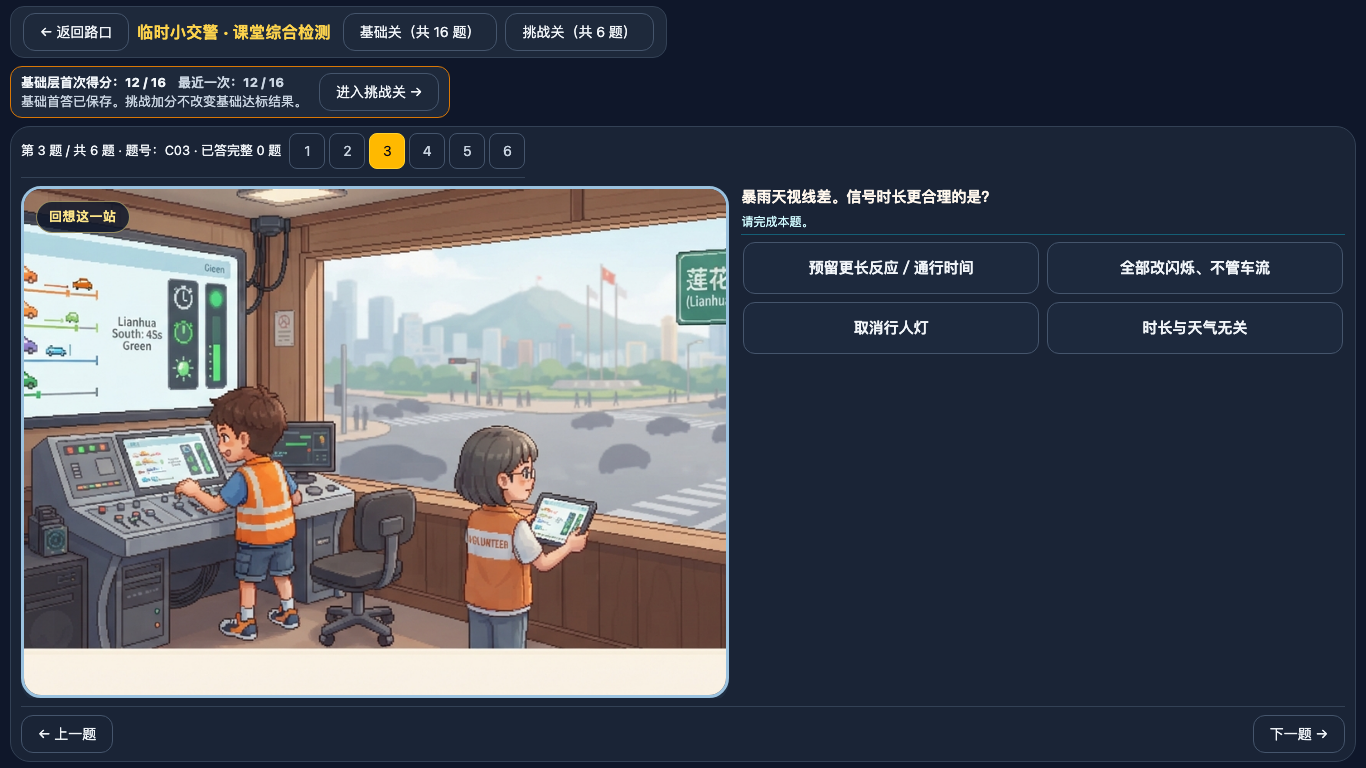
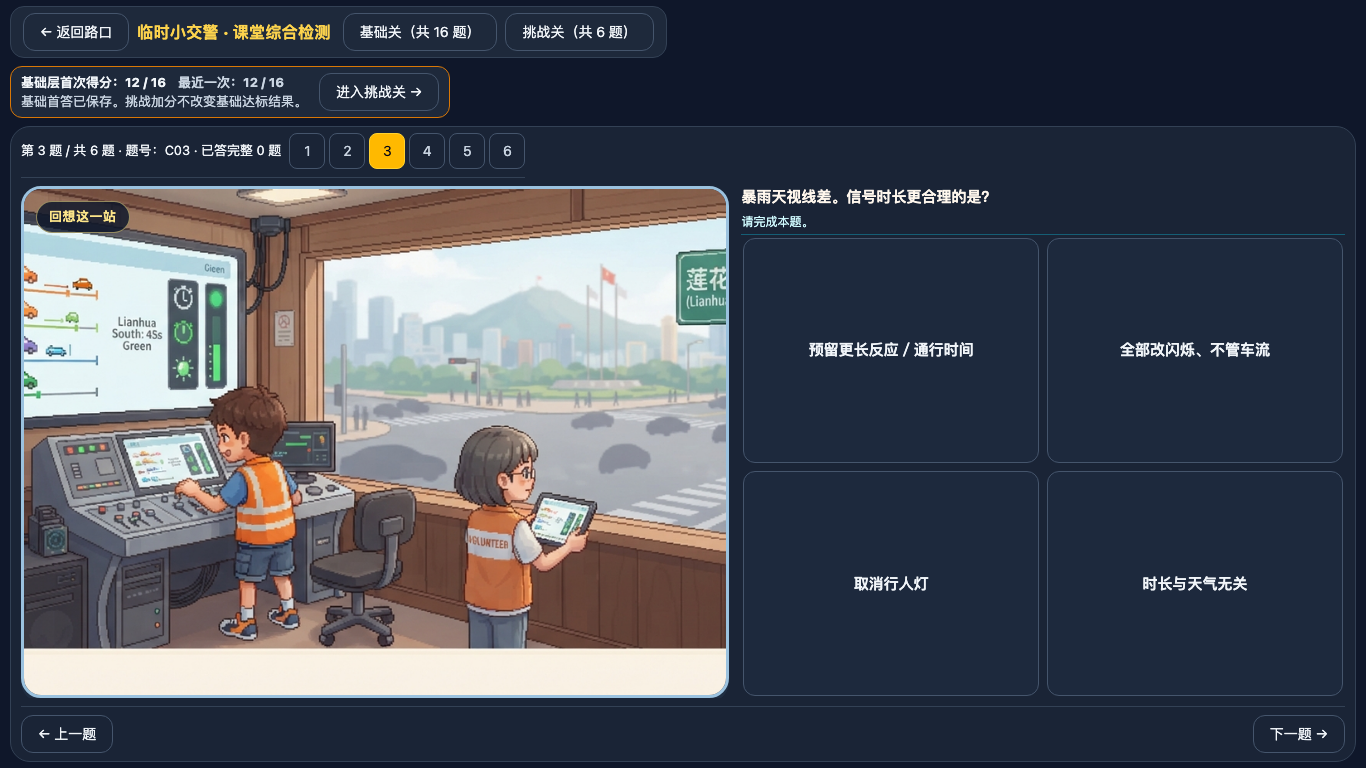
fix(g5l7): 考核右栏选项均分铺满剩余高度
去掉选项 max-height 与 align-content:start，用 1fr 行把 2×2 / 双选项大卡片拉满右栏。
C05 三行均分且仍保证 1366×768 一屏可见。考核流程图 fitPadding 略收，双图同一参数。

diff --git a/src/components/lesson/FlowDiagram.tsx b/src/components/lesson/FlowDiagram.tsx
@@ -4,7 +4,7 @@ import '@xyflow/react/dist/style.css';
 
 export type DiagramNode = { id: string; label: string; kind: 'start' | 'process' | 'decision'; x: number; y: number; empty?: boolean; branches?: boolean };
 export type DiagramEdge = { id: string; from: string; to: string; branch?: 'yes' | 'no'; label?: string; back?: boolean };
-type Props = { nodes: DiagramNode[]; edges: DiagramEdge[]; activeNode?: string; nextNodeId?: string; selectedEdge?: string; selectedBranch?: string; onNodeSelect?: (id: string) => void; onPortSelect?: (port: 'yes' | 'no') => void; onEdgeSelect?: (id: string) => void; label?: string };
+type Props = { nodes: DiagramNode[]; edges: DiagramEdge[]; activeNode?: string; nextNodeId?: string; selectedEdge?: string; selectedBranch?: string; onNodeSelect?: (id: string) => void; onPortSelect?: (port: 'yes' | 'no') => void; onEdgeSelect?: (id: string) => void; label?: string; fitPadding?: number };
 
 function LessonNode({ data }: NodeProps) {
   const d = data as any;
@@ -48,6 +48,8 @@ const edgeTypes = { lesson: LessonEdge };
 export default function FlowDiagram(props: Props) {
   const container = useRef<HTMLDivElement>(null);
   const fit = useRef<() => void>(() => {});
+  const fitPadding = useRef(props.fitPadding ?? 0.18);
+  fitPadding.current = props.fitPadding ?? 0.18;
   const layoutKey = props.nodes.map(n => `${n.id}:${n.kind}:${n.x}:${n.y}`).join('|');
   useEffect(() => {
     let frame = 0;
@@ -64,10 +66,10 @@ export default function FlowDiagram(props: Props) {
       secondFrame = window.requestAnimationFrame(() => fit.current());
     });
     return () => { window.cancelAnimationFrame(frame); window.cancelAnimationFrame(secondFrame); };
-  }, [layoutKey]);
+  }, [layoutKey, props.fitPadding]);
   const nodes = useMemo(() => props.nodes.map(n => ({ id: n.id, type: 'lesson', position: { x: n.x, y: n.y }, data: { ...n, active: props.activeNode === n.id, selectable: !!props.onNodeSelect, selectedBranch: props.selectedBranch, onPort: props.onPortSelect }, width: n.kind === 'decision' ? 240 : 200, height: n.kind === 'decision' ? 100 : 54, draggable: false })), [props.nodes, props.activeNode, props.onNodeSelect, props.onPortSelect, props.selectedBranch]);
   const edges = useMemo(() => props.edges.map(e => ({ id: e.id, type: 'lesson', source: e.from, target: e.to, sourceHandle: e.branch || 'bottom', targetHandle: e.back ? 'left' : 'top', label: e.label, markerEnd: { type: MarkerType.ArrowClosed, color: props.selectedEdge === e.id ? '#f58b20' : '#367abd' }, data: { back: e.back, selected: props.selectedEdge === e.id }, animated: props.activeNode === e.from && props.nextNodeId === e.to })), [props.edges, props.selectedEdge, props.activeNode, props.nextNodeId]);
   return <div ref={container} className="lesson-flow" aria-label={props.label || '可操作流程图'}>
-    <ReactFlow nodes={nodes} edges={edges} nodeTypes={nodeTypes} edgeTypes={edgeTypes} onInit={instance => { fit.current = () => { void instance.fitView({ padding: .18, duration: 0 }); }; fit.current(); }} fitView fitViewOptions={{ padding: .18 }} minZoom={.25} maxZoom={1.1} nodesDraggable={false} nodesConnectable={false} panOnDrag={false} panOnScroll={false} zoomOnScroll={false} zoomOnDoubleClick={false} zoomOnPinch={false} elementsSelectable={false} onNodeClick={(_, node) => props.onNodeSelect?.(node.id)} onEdgeClick={(_, edge) => props.onEdgeSelect?.(edge.id)} preventScrolling={false} />
+    <ReactFlow nodes={nodes} edges={edges} nodeTypes={nodeTypes} edgeTypes={edgeTypes} onInit={instance => { fit.current = () => { void instance.fitView({ padding: fitPadding.current, duration: 0 }); }; fit.current(); }} fitView fitViewOptions={{ padding: props.fitPadding ?? 0.18 }} minZoom={.25} maxZoom={1.1} nodesDraggable={false} nodesConnectable={false} panOnDrag={false} panOnScroll={false} zoomOnScroll={false} zoomOnDoubleClick={false} zoomOnPinch={false} elementsSelectable={false} onNodeClick={(_, node) => props.onNodeSelect?.(node.id)} onEdgeClick={(_, edge) => props.onEdgeSelect?.(edge.id)} preventScrolling={false} />
   </div>;
 }

diff --git a/src/components/views/examLayout.css b/src/components/views/examLayout.css
@@ -200,14 +200,14 @@
   min-height: 0;
   display: grid;
   grid-template-columns: repeat(2, minmax(0, 1fr));
+  grid-auto-rows: minmax(80px, 1fr);
   gap: 12px;
-  align-content: start;
+  align-content: stretch;
   align-items: stretch;
-  padding-top: 4px;
 }
 .exam-option {
   min-height: 80px;
-  max-height: 140px;
+  height: 100%;
   padding: 14px 16px;
   font-size: 17px;
   font-weight: 750;
@@ -217,17 +217,15 @@
   justify-content: center;
   text-align: center;
 }
-.exam-options:has(> :first-child:nth-last-child(1)),
-.exam-options:has(> :first-child:nth-last-child(2)) {
+.exam-options-1,
+.exam-options-2 {
   grid-template-columns: minmax(0, 1fr);
 }
-.exam-options:has(> :first-child:nth-last-child(1)) .exam-option,
-.exam-options:has(> :first-child:nth-last-child(2)) .exam-option {
-  min-height: 96px;
-  max-height: 140px;
+.exam-options-2 .exam-option,
+.exam-options-1 .exam-option {
   font-size: 20px;
 }
-.exam-options:has(> :nth-child(5):last-child) > :last-child {
+.exam-options-5 > :last-child {
   grid-column: 1 / -1;
 }
 .exam-match {
@@ -337,10 +335,10 @@
   .exam-status, .exam-platform, .exam-slot-hint { font-size: 12px; }
   .exam-prompt { gap: 5px; }
   .exam-answers { gap: 6px; padding: 2px; }
-  .exam-options { gap: 8px; }
-  .exam-option { min-height: 52px; max-height: 84px; font-size: 15px; padding: 8px 10px; }
-  .exam-options:has(> :first-child:nth-last-child(1)) .exam-option,
-  .exam-options:has(> :first-child:nth-last-child(2)) .exam-option { min-height: 64px; max-height: 96px; font-size: 18px; }
+  .exam-options { gap: 8px; grid-auto-rows: minmax(48px, 1fr); }
+  .exam-option { min-height: 48px; font-size: 15px; padding: 8px 10px; }
+  .exam-options-2 .exam-option,
+  .exam-options-1 .exam-option { font-size: 18px; }
   .exam-stage { padding: 6px 10px 8px; }
   .exam-blocks { padding: 8px 12px; gap: 4px; }
   .exam-block { padding: 7px 12px; font-size: 14px; }

diff --git a/src/components/lesson/QuestionFigure.tsx b/src/components/lesson/QuestionFigure.tsx
@@ -75,7 +75,7 @@ function ReadonlyFigure({ figure, title, name }: { figure: Figure; title?: strin
   return <div className="question-figure-card" data-figure-name={name}>
     {title && <div className="question-figure-title">{title}</div>}
     <div className="question-figure-canvas" data-readonly-diagram="true" role="img" aria-label={`${title || '题中'}流程图`}>
-      <FlowDiagram nodes={figure.nodes} edges={figure.edges} label={`${title || '题中'}流程图`}/>
+      <FlowDiagram nodes={figure.nodes} edges={figure.edges} label={`${title || '题中'}流程图`} fitPadding={0.08}/>
     </div>
     {figure.note && <p className="question-figure-note">{figure.note}</p>}
   </div>;

diff --git a/src/components/views/ExamView.tsx b/src/components/views/ExamView.tsx
@@ -132,7 +132,7 @@ function AnswerCards({
           </span>
         </div>
       )}
-      <div className="exam-options">
+      <div className={`exam-options exam-options-${(question.options || question.cards || []).length}`}>
         {(question.options || question.cards || []).map(option => {
           const selected = slot ? picked === option : placed === option;
           return <button

diff --git a/docs/verification/layout-20261110/LAYOUT-QA-20261110.md b/docs/verification/layout-20261110/LAYOUT-QA-20261110.md
@@ -1,40 +1,39 @@
 # 五年级第7课考核版式自检 LAYOUT-QA-20261110
 
-- 检测时间：2026-11-10T12:22:13+08:00 Asia/Shanghai（Asia/Shanghai）
+- 最近一次复测：2026-11-10T12:35:24+08:00 Asia/Shanghai（Asia/Shanghai）
 - 隔离地址：http://192.168.0.14:18997
-- 结论：**通过，可交老师审**
+- 结论：**通过（右栏选项已铺满，可交老师审）**
 - 检查：18 过 / 0 不过
-- 测试身份：版式QA_1794284534376（隔离 DATA_DIR，未写入课堂 runtime）
+- 测试身份：版式QA_1794285324702（隔离 DATA_DIR，未写入课堂 runtime）
 
 ## 改动要点
-- 考核页改为占满 `100vh` 的纵向 flex 壳（不用 dvh，兼顾 Win7 Chrome）。题目区 `flex:1`，底栏「上一题／下一题」贴在题目区底部，不再靠大块空白把底栏推下去。
-- 宽屏（≥1100px）左右分栏：有流程图时左图右题；流程图画布改为填满左栏可用高度，去掉写死的 365–410px。双图（B08/C02）在左栏左右并列。
-- 无流程图题左侧放本课已有剧情配图作「情景回忆」，中性标题「回想这一站」，图上不圈选项、不暗示答案。B01 用 `cg_s1_queue.png`，C03 用 `cg_s3_booth.png`，C05 等无对应站点用 `cg_exam_ready.png`。
-- 选项改为居中磁贴（二字选项如「图甲／图乙」改为上下排列），字号加大；积木题（C05）拼装区拉满右栏，五个选项一屏内可见。
-- 探究站 workspace 取消过矮的 `max-height` 封顶，让主工作区接到底栏。未改玩法。
-- **未改**题干、选项、判分、引导与焦点逻辑。未作答选项保持深色边，只有已选才用琥珀色。
+- 考核页占满 `100vh` 纵向 flex，题目区 `flex:1`，底栏贴底。
+- 宽屏左右分栏：有流程图时左图右题，画布填满左栏；无流程图题左侧放本课剧情配图作中性「情景回忆」。
+- **本次补改：** `.exam-options` 改为 `grid-auto-rows: minmax(80px, 1fr)` + `align-content: stretch`，去掉选项 `max-height`。2×2 与「图甲／图乙」两张大卡片把右栏剩余高度均分铺满，文字垂直居中。不再把整页空白挪到右栏下半截。
+- 5 选项（C05）最后一项通栏，三行均分剩余高度；积木区仍在选项上方。矮屏只略减最小高度与间距，保证 1366×768 一屏看到积木、全部选项和底栏。
+- 考核流程图 `fitPadding` 从 0.18 收到 0.08（两图同一参数），让双图画布多吃一点高度。图意未改。
+- **未改**题干、选项、判分、引导与焦点。未作答选项无黄框。
 
 ## 各视口是否饱满
-- **s1-station**：workspace 占比 -，左栏高度 556px，底栏距视窗下沿 18px，回忆/图：-，题干与底栏均在一屏内。
-- **B01-1440x900**：workspace 占比 0.791，左栏高度 696px，底栏距视窗下沿 19px，回忆/图：/lesson/story/cg_s1_queue.png，题干与底栏均在一屏内。
-- **B01-1366x768**：workspace 占比 0.766，左栏高度 572px，底栏距视窗下沿 15px，回忆/图：/lesson/story/cg_s1_queue.png，题干与底栏均在一屏内。
-- **B08-1440x900**：workspace 占比 0.791，左栏高度 696px，底栏距视窗下沿 19px，回忆/图：流程图，题干与底栏均在一屏内。
-- **B08-1366x768**：workspace 占比 0.766，左栏高度 572px，底栏距视窗下沿 15px，回忆/图：流程图，题干与底栏均在一屏内。
-- **C01-1440x900**：workspace 占比 0.72，左栏高度 632px，底栏距视窗下沿 19px，回忆/图：流程图，题干与底栏均在一屏内。
-- **C01-1366x768**：workspace 占比 0.688，左栏高度 512px，底栏距视窗下沿 15px，回忆/图：流程图，题干与底栏均在一屏内。
-- **C03-1440x900**：workspace 占比 0.72，左栏高度 632px，底栏距视窗下沿 19px，回忆/图：/lesson/story/cg_s3_booth.png，题干与底栏均在一屏内。
-- **C03-1366x768**：workspace 占比 0.688，左栏高度 512px，底栏距视窗下沿 15px，回忆/图：/lesson/story/cg_s3_booth.png，题干与底栏均在一屏内。
-- **C05-1440x900**：workspace 占比 0.72，左栏高度 632px，底栏距视窗下沿 19px，回忆/图：/lesson/story/cg_exam_ready.png，题干与底栏均在一屏内。
-- **C05-1366x768**：workspace 占比 0.688，左栏高度 512px，底栏距视窗下沿 15px，回忆/图：/lesson/story/cg_exam_ready.png，题干与底栏均在一屏内。
+- **s1-station**：workspace 占比 -，左栏高度 556px，底栏距下沿 18px，选项距右栏底 -px，最矮选项 -px，回忆/图：-。
+- **B01-1440x900**：workspace 占比 0.791，左栏高度 696px，底栏距下沿 19px，选项距右栏底 6px，最矮选项 292px，回忆/图：/lesson/story/cg_s1_queue.png。
+- **B01-1366x768**：workspace 占比 0.766，左栏高度 572px，底栏距下沿 15px，选项距右栏底 2px，最矮选项 255px，回忆/图：/lesson/story/cg_s1_queue.png。
+- **B08-1440x900**：workspace 占比 0.791，左栏高度 696px，底栏距下沿 19px，选项距右栏底 6px，最矮选项 305px，回忆/图：流程图。
+- **B08-1366x768**：workspace 占比 0.766，左栏高度 572px，底栏距下沿 15px，选项距右栏底 2px，最矮选项 255px，回忆/图：流程图。
+- **C01-1440x900**：workspace 占比 0.72，左栏高度 632px，底栏距下沿 19px，选项距右栏底 6px，最矮选项 273px，回忆/图：流程图。
+- **C01-1366x768**：workspace 占比 0.688，左栏高度 512px，底栏距下沿 15px，选项距右栏底 2px，最矮选项 225px，回忆/图：流程图。
+- **C03-1440x900**：workspace 占比 0.72，左栏高度 632px，底栏距下沿 19px，选项距右栏底 6px，最矮选项 273px，回忆/图：/lesson/story/cg_s3_booth.png。
+- **C03-1366x768**：workspace 占比 0.688，左栏高度 512px，底栏距下沿 15px，选项距右栏底 2px，最矮选项 225px，回忆/图：/lesson/story/cg_s3_booth.png。
+- **C05-1440x900**：workspace 占比 0.72，左栏高度 632px，底栏距下沿 19px，选项距右栏底 6px，最矮选项 55px，回忆/图：/lesson/story/cg_exam_ready.png。
+- **C05-1366x768**：workspace 占比 0.688，左栏高度 512px，底栏距下沿 15px，选项距右栏底 2px，最矮选项 40px，回忆/图：/lesson/story/cg_exam_ready.png。
 
 ## 截图核验（人工看过）
-- 1440×900 / 1366×768：B01（无流程图+情景回忆）、B08（双流程图）、C01（单流程图）、C03（策略题+调度台回忆）、C05（积木）均左右分栏，画面饱满，无整页下半截空白，未作答选项无黄框泄答案。
-- 流程图节点字号在两档机房分辨率下可读；B08 右图因结构较扁，卡片内四周会有一些浅色留白，属 fitView 适应，图卡本身仍填满左栏。
-- 登录页、地图、第一站探究面板已截图。第一站主工作区接到操作底栏，下方无明显空洞。
+- B01、C03、C01、B08 在 1440×900 与 1366×768：右栏选项已是大方块铺满剩余高度，下半截不再是深色空。B08「图甲／图乙」为上下两张大卡片。
+- C05 积木在上、五个选项均分剩余高度，最后一项通栏；1366×768 一屏内可见积木、全部选项和底栏。
+- 未作答选项无黄框泄答案。登录、地图、第一站探究亦已截图。
 
 ## 残留说明
-- 选项较少的题目（如 B01、B08、C01）右栏选项组紧贴题干，左栏图或流程图撑满高度；右栏选项下方会留一点深色底，这是为避免再把选项拉成「空荡大框」。底栏位置正常，不再被整页空白托下去。
-- 挑战关截图带有基础关得分条（由隔离测试先提交基础卷解锁），首次进入基础关没有该条，可用空间更宽裕。
+- B08 右图（乙）是「左右分支」宽图，在竖长画布里 fitView 仍会比左图（竖排循环）多一点奶油色边；两图使用同一 padding，未改节点与图意。
 
 ## 检查明细
 - 通过 login
